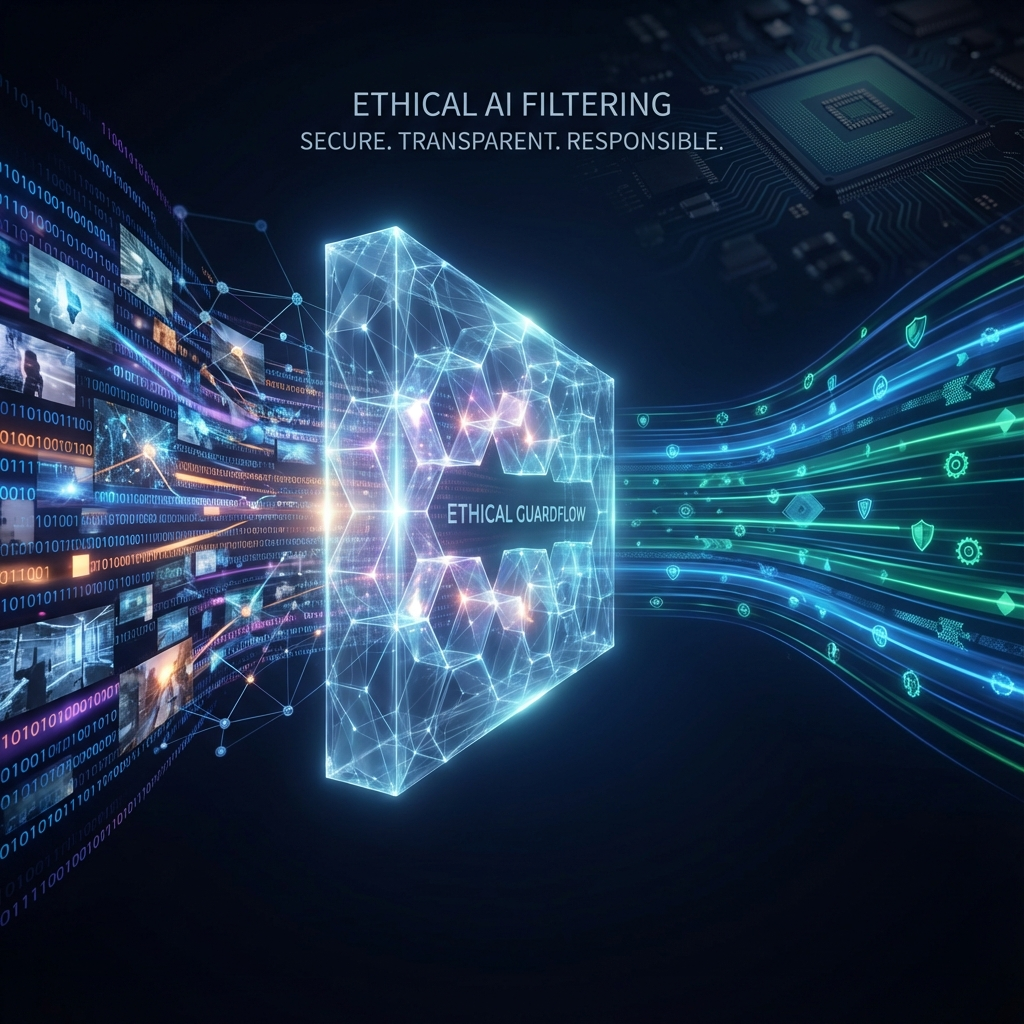
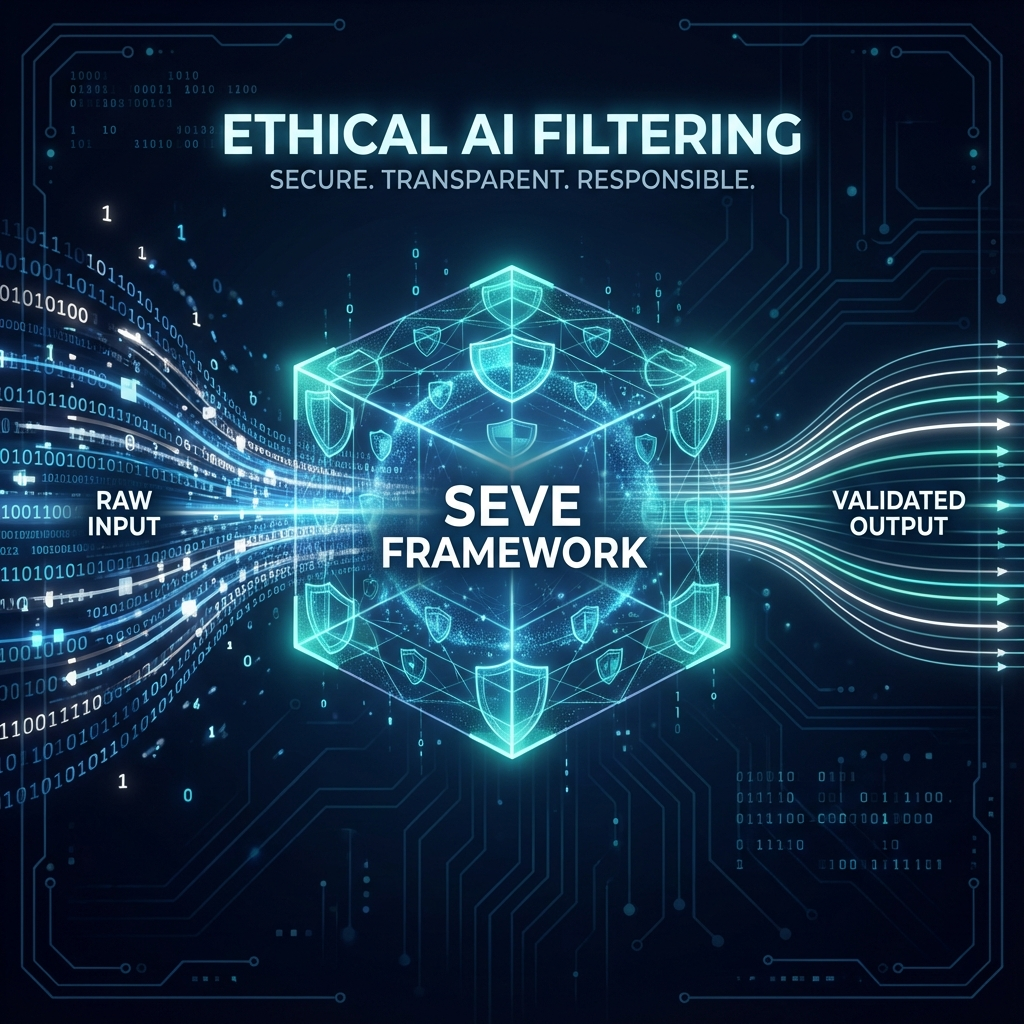
docs: add positioning document and update branding strategy

diff --git a/docs/POSITIONING.md b/docs/POSITIONING.md
@@ -1,0 +1,122 @@
+# SEVE Framework - Posicionamento e Identidade
+
+## 🎯 O Que é o SEVE?
+
+O **SEVE Framework** (Symbiotic Ethical Vision Engine) é o **núcleo universal de ética para sistemas de IA**.
+
+### Não Somos Um Projeto Específico
+
+❌ **NÃO**: "GuardFlow" (nome de projeto antigo, específico)  
+❌ **NÃO**: Uma solução pontual para um problema  
+❌ **NÃO**: Um add-on ou plugin  
+
+✅ **SIM**: A **infraestrutura fundamental** para ética em IA  
+✅ **SIM**: O **núcleo de inovação** que qualquer sistema pode usar  
+✅ **SIM**: A **base universal** adaptável a qualquer domínio  
+
+---
+
+## 🌐 Posicionamento Correto
+
+### SEVE como Infraestrutura
+
+Assim como:
+- **Linux** é o kernel que roda em servidores, smartphones, IoT
+- **TCP/IP** é o protocolo que conecta a internet
+- **PostgreSQL** é o banco de dados que armazena dados
+
+**SEVE** é:
+- O **motor ético** que valida decisões de IA
+- A **camada de compliance** que garante responsabilidade
+- O **framework universal** que se adapta a qualquer contexto
+
+### Analogia de Mercado
+
+| Camada | Tecnologia | Função |
+|--------|------------|--------|
+| **Aplicação** | Healthcare App, Retail System, Smart City | Solução específica |
+| **Framework** | **SEVE Framework** | **Validação ética universal** |
+| **Infraestrutura** | Kubernetes, Docker, Cloud | Deploy e escala |
+| **Hardware** | Servidores, Edge Devices | Computação física |
+
+---
+
+## 🔑 Mensagens-Chave
+
+### Elevator Pitch (30 segundos)
+> "SEVE é a infraestrutura de ética para IA. Assim como você não constrói um servidor sem Linux, você não deveria construir IA sem SEVE. Nós somos o núcleo que garante que qualquer sistema de IA opere de forma ética, privada e responsável - independente do domínio."
+
+### Tagline
+**"The Universal Ethical Core for AI"**  
+ou  
+**"Ética como Infraestrutura"**
+
+### Diferencial Único
+Não somos uma solução vertical (ex: "ética para saúde"). Somos a **camada horizontal** que qualquer vertical pode usar.
+
+---
+
+## 📊 Casos de Uso (Exemplos de Adaptação)
+
+O SEVE **não é** nenhum desses projetos específicos, mas **habilita** todos eles:
+
+1. **Healthcare**: Sistema de diagnóstico ético → usa SEVE como validador
+2. **Retail**: Monitoramento de loja sem vigilância → usa SEVE para privacidade
+3. **Finance**: Detecção de fraude sem viés → usa SEVE para fairness
+4. **Smart Cities**: Gestão urbana transparente → usa SEVE para accountability
+
+**SEVE é o que todos eles têm em comum**: a necessidade de ética.
+
+---
+
+## 🎨 Identidade Visual Correta
+
+### O que deve aparecer nas imagens:
+
+✅ **"SEVE FRAMEWORK"** - Nome principal  
+✅ **"Universal Ethical AI Core"** - Subtítulo  
+✅ **Símbolos universais**: Escudo (proteção), Rede (conectividade), Cristal (transparência)  
+✅ **Múltiplos domínios convergindo** para um núcleo central  
+
+❌ **NÃO usar**: "GuardFlow" como identidade principal  
+❌ **NÃO usar**: Símbolos específicos de um domínio apenas  
+
+### Paleta de Cores Oficial
+
+- **Primary**: Navy Blue (#1a365d) - Confiança, profissionalismo
+- **Secondary**: Teal (#14b8a6) - Inovação, tecnologia
+- **Accent**: White (#ffffff) - Clareza, transparência
+- **Alert**: Green (#059669) - Aprovação ética
+- **Warning**: Red (#dc2626) - Bloqueio ético
+
+---
+
+## 📝 Atualizações Necessárias
+
+### Documentação a Revisar:
+1. ✅ README.md - Remover referências a "GuardFlow" como identidade
+2. ✅ Imagens - Gerar nova versão do hero banner
+3. ✅ Pitch Deck - Enfatizar "infraestrutura universal"
+4. ✅ One-Pager - Posicionar como "núcleo de inovação"
+
+### Mensagens a Corrigir:
+- **Antes**: "GuardFlow bloqueia transações anti-éticas"
+- **Depois**: "SEVE valida eticamente qualquer decisão de IA"
+
+- **Antes**: "Solução de ética para IA"
+- **Depois**: "Infraestrutura universal de ética para IA"
+
+---
+
+## 🚀 Próximos Passos
+
+1. **Gerar nova imagem** que reflita SEVE como núcleo universal
+2. **Atualizar documentação** para remover "GuardFlow" como marca principal
+3. **Criar assets** que mostrem a adaptabilidade (um core, múltiplos domínios)
+4. **Pitch refinado** focando em "infraestrutura" não "produto"
+
+---
+
+**SEVE Framework**  
+*The Universal Ethical Core for AI*  
+*Ética como Infraestrutura*
